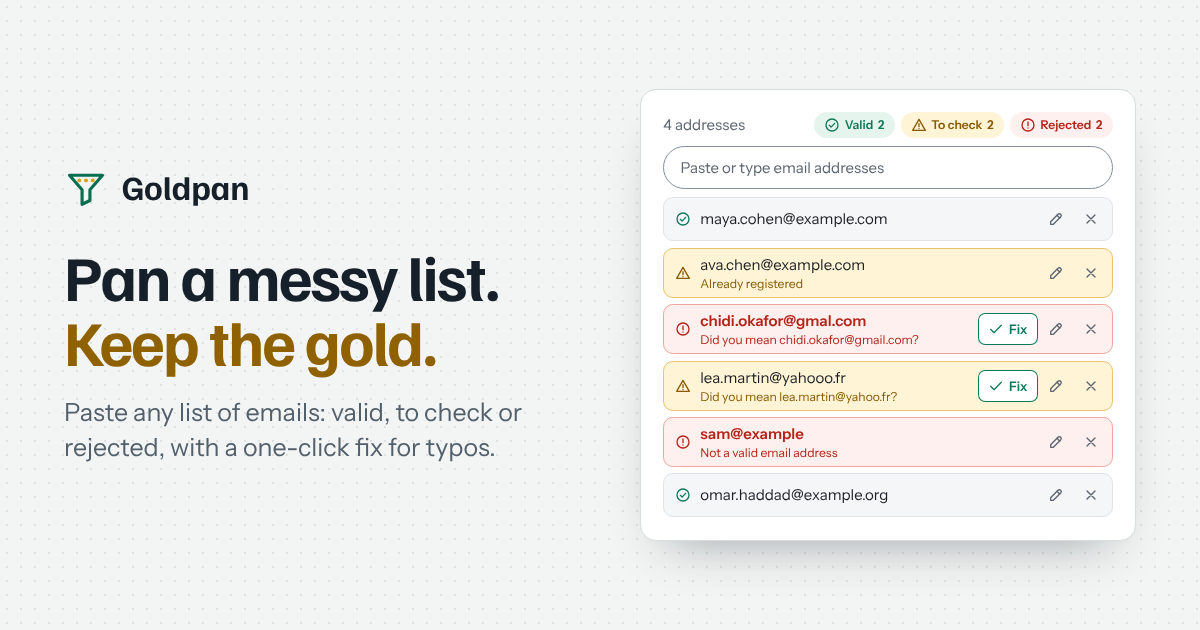
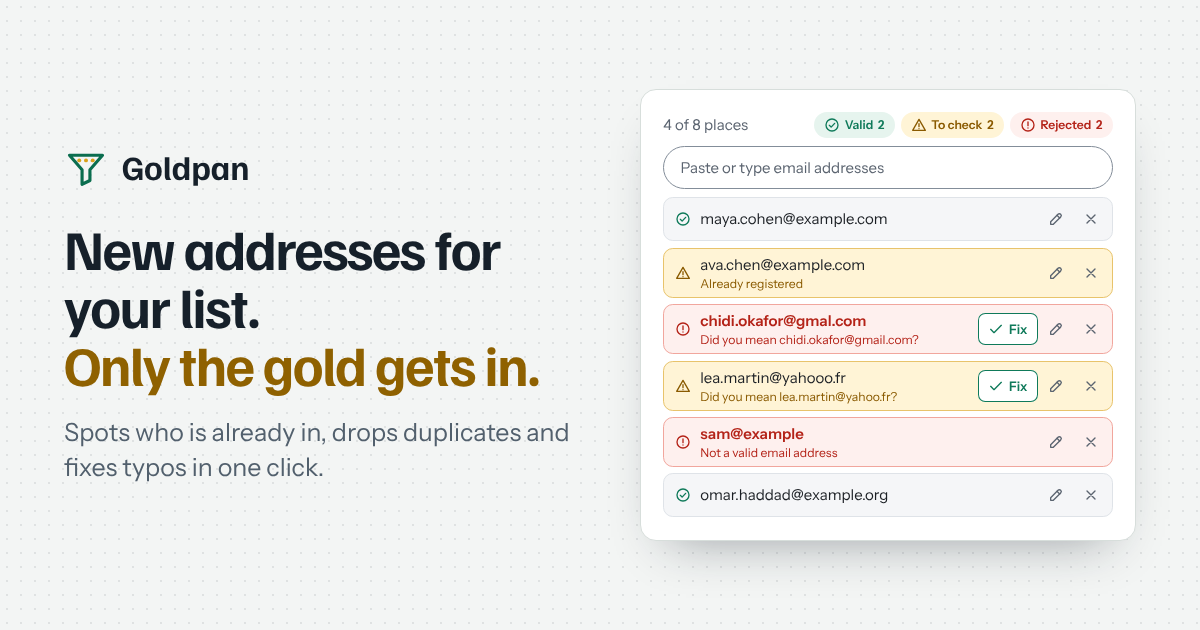
Describe Goldpan as the way to add people to a list you already have
Headline, introduction and social preview of the demo, README and package
description now lead with that use: it spots who is already in, drops
duplicates, fixes typos and keeps to the places left.

Claude-Session: https://claude.ai/code/session_019YrVj88XV46auaZZtjSUJ6

Changed region(s): [[0.0308, 0.3619, 0.4933, 0.754], [0.0617, 0.2413, 0.2158, 0.3317], [0.555, 0.181, 0.6167, 0.2111]]

diff --git a/demo/index.html b/demo/index.html
@@ -3,15 +3,15 @@
 <head>
 <meta charset="utf-8">
 <meta name="viewport" content="width=device-width, initial-scale=1, viewport-fit=cover">
-<title>Goldpan · paste a messy email list, keep the gold</title>
-<meta name="description" content="Goldpan is a tiny, dependency-free email input. Paste any list: every address is sorted into valid, warning or error, and misspelled domains get a one-click fix.">
+<title>Goldpan · new addresses for your list, only the gold gets in</title>
+<meta name="description" content="Goldpan is a tiny, dependency-free email input for adding people to a list you already have: it spots who is already in, drops duplicates, fixes misspelled domains in one click and keeps to the places left.">
 <meta name="theme-color" content="#0b6e4f">
 <link rel="icon" href="icon.svg" type="image/svg+xml">
 <link rel="canonical" href="{{HOMEPAGE}}">
 <meta property="og:type" content="website">
 <meta property="og:site_name" content="Goldpan">
-<meta property="og:title" content="Goldpan · paste a messy email list, keep the gold">
-<meta property="og:description" content="A tiny email input that sorts every pasted address into valid, warning or error, and fixes misspelled domains in one click.">
+<meta property="og:title" content="Goldpan · new addresses for your list, only the gold gets in">
+<meta property="og:description" content="Add people to a list you already have: Goldpan spots who is already in, drops duplicates, fixes typos in one click and keeps to the places left.">
 <meta property="og:url" content="{{HOMEPAGE}}">
 <meta property="og:image" content="{{HOMEPAGE}}og.png">
 <meta property="og:image:width" content="1200">
@@ -176,6 +176,7 @@ code, pre, kbd { font-family: var(--font-mono); font-size: 0.88em; }
 }
 .hero h1 { font-size: var(--step-3); letter-spacing: -0.03em; }
 .hero h1 em { font-style: normal; color: var(--gold-ink); }
+@media (min-width: 561px) { .hero h1 em { display: block; } }
 .lede { margin-top: 16px; font-size: var(--step-1); color: var(--ink-soft); max-width: 44ch; }
 .steps { margin: 24px 0 0; padding: 0; list-style: none; display: grid; gap: 12px; counter-reset: step; }
 .steps li { display: grid; grid-template-columns: 30px 1fr; gap: 12px; align-items: start; counter-increment: step; }
@@ -405,8 +406,8 @@ footer { border-top: 1px solid var(--line); padding-block: 28px 48px; color: var
   <main>
   <section class="hero" aria-labelledby="hero-title">
     <div>
-      <h1 id="hero-title" data-i18n="h1">Pan a messy list. <em>Keep the gold.</em></h1>
-      <p class="lede" data-i18n="lede">Goldpan is an email field that takes many addresses at once. Paste an Excel column, a line from Outlook or any list: every address is checked straight away and turns green, yellow or red, and misspelled domains are fixed in one click.</p>
+      <h1 id="hero-title" data-i18n="h1">New addresses for your list. <em>Only the gold gets in.</em></h1>
+      <p class="lede" data-i18n="lede">Goldpan is an email field for adding people to a list you already have: team members, subscribers, guests. Paste the new addresses from Excel, Outlook or anywhere: it spots who is already in, drops duplicates, fixes misspelled domains in one click and stops at the places left.</p>
       <ol class="steps">
         <li><div><strong data-i18n="s1t">The workspace already has members</strong><span data-i18n="s1d">4 of its 12 seats are taken, and Goldpan knows who is already in.</span></div></li>
         <li><div><strong data-i18n="s2t">Invite and paste</strong><span data-i18n="s2d">Press “Invite people” and paste a list, or use the example.</span></div></li>
@@ -679,8 +680,8 @@ footer { border-top: 1px solid var(--line); padding-block: 28px 48px; color: var
   // =====================================================================
   const IT = {
     skip: 'Vai alla demo',
-    h1: 'Setaccia una lista disordinata. <em>Tieni l’oro.</em>',
-    lede: 'Goldpan è un campo email che accetta molti indirizzi insieme. Incolla una colonna di Excel, una riga di Outlook o un elenco qualsiasi: ogni indirizzo viene controllato subito e diventa verde, giallo o rosso, e i domini scritti male si correggono con un clic.',
+    h1: 'Nuovi indirizzi per la tua lista. <em>Entra solo l’oro.</em>',
+    lede: 'Goldpan è un campo email per aggiungere persone a una lista che hai già: membri di un team, iscritti, invitati. Incolla i nuovi indirizzi da Excel, Outlook o dove vuoi: riconosce chi c’è già, ignora i doppioni, corregge i domini scritti male con un clic e si ferma ai posti liberi.',
     s1t: 'Il workspace ha già dei membri', s1d: '4 dei suoi 12 posti sono occupati, e Goldpan sa già chi c’è.',
     s2t: 'Invita e incolla', s2d: 'Premi “Invita persone” e incolla una lista, oppure usa l’esempio.',
     s3t: 'Controlla i colori e invita', s3d: 'Verdi e gialli verranno invitati. I rossi puoi correggerli, oppure lasciarli fuori con “Ignora e invia”.',

diff --git a/README.md b/README.md
@@ -2,11 +2,11 @@
 
 # Goldpan
 
-**Pan a messy list of email addresses. Keep the gold.**
+**New addresses for your list. Only the gold gets in.**
 
-A tiny, dependency-free email input that takes many addresses at once and sorts every one of them into
-**valid**, **to check** or **rejected**, offers a one-click fix for misspelled domains (`gmial.com`),
-respects a limit of places and keeps your form in sync.
+A tiny, dependency-free email input for adding people to a list you already have: team members, subscribers,
+guests. Paste the new addresses from anywhere and it spots who is already in, drops duplicates, offers a one-click
+fix for misspelled domains (`gmial.com`), stops at the places left and keeps your form in sync.
 
 [![npm](https://img.shields.io/npm/v/goldpan.svg)](https://www.npmjs.com/package/goldpan)
 [![bundle size](https://img.shields.io/bundlephobia/minzip/goldpan)](https://bundlephobia.com/package/goldpan)
@@ -24,9 +24,9 @@ respects a limit of places and keeps your form in sync.
 
 ## Why Goldpan
 
-Most "email tag inputs" only say whether an address is well formed. Real lists are messier: a column copied from
-Excel, a line from Outlook with names in it, the same person twice, people who are already members, a provider
-spelled wrong, more people than places left.
+Most "email tag inputs" only say whether an address is well formed. Adding people to a list you already have is
+messier: a column copied from Excel, a line from Outlook with names in it, the same person twice, people who are
+already members, a provider spelled wrong, more people than places left.
 
 Gold panning is the same job: you pour in gravel and keep the nuggets. Goldpan gives every address exactly **one
 status**:
@@ -41,13 +41,14 @@ status**:
 
 ## Features
 
+- **Starts from your list**: addresses already on it (members, previous invites) are flagged for a check or
+  refused (`existingEmails`)
 - **Reads real lists**: commas, semicolons, spaces, line breaks, Excel columns, `Name <address>`
   (Outlook, Gmail, Apple Mail), `mailto:` links, full-width separators (`，` `；` `、`)
 - **Typo check** for about 100 popular providers (`gmial.com`, `hotmial.com`, `gmail.con`…) with a one-click fix,
   tuned to leave real domains alone: regional ones like `hotmail.be` or `yahoo.in`, and companies such as `aon.com`
 - **Limit of places** with `maxEmails`: when a place frees up, the first address waiting moves in
 - **Duplicates** are dropped by default and the original is highlighted; or keep them with a warning, or refuse them
-- **Existing addresses** (members, previous invites) flagged for a check or refused
 - **Exclusion list** of domains, with `*.domain` wildcards, ready for large disposable-domain lists
 - **Your own rules** through a `validate` callback
 - **Inline editing**, one-click filters by status and a counter with correct plurals
